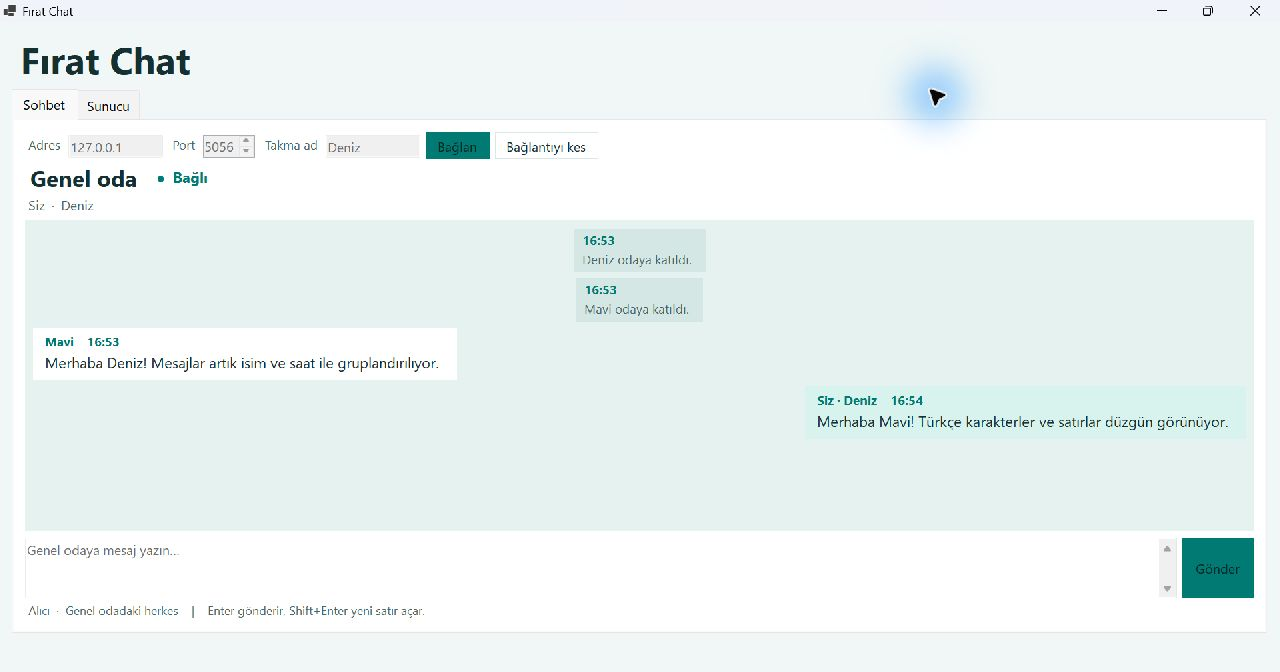
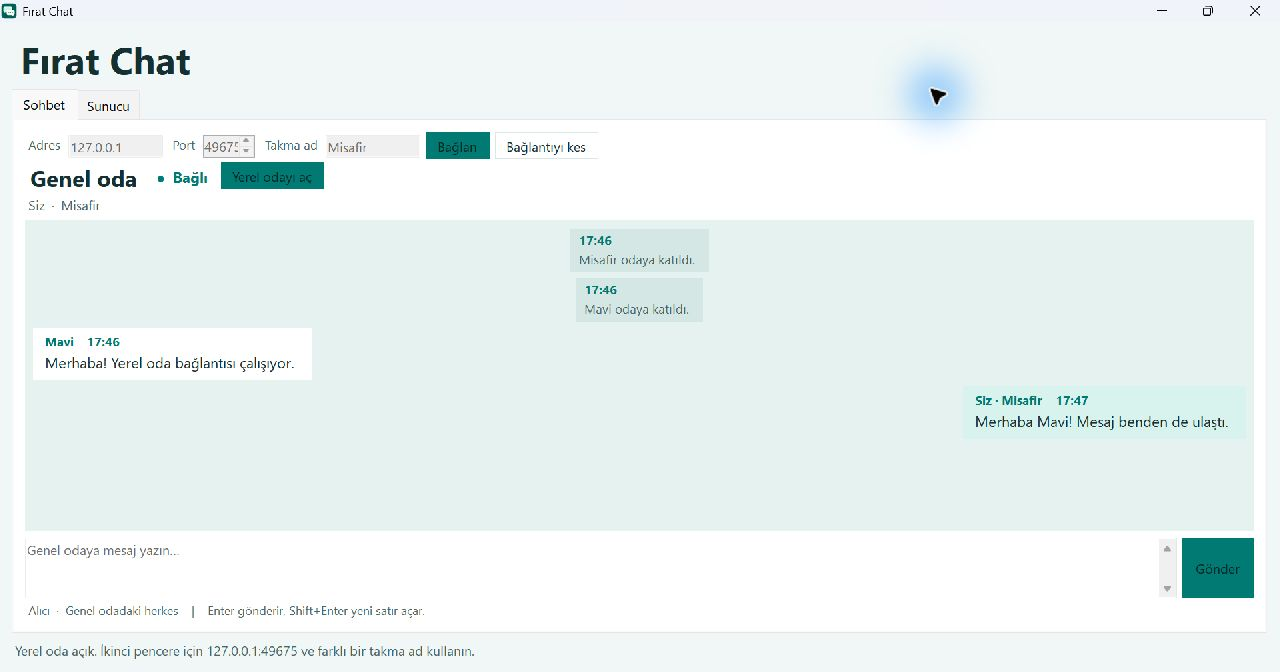
docs: yerel odayı açma ve iki yönlü sohbeti göster

diff --git a/README.md b/README.md
@@ -14,7 +14,9 @@ cd YMH219-ChatApp
 dotnet run -c Release
 ```
 
-1. **Sunucu** sekmesinde dinleme portunu seçin (varsayılan `5056`) ve **Sunucuyu başlat** düğmesine basın.
+En hızlı deneme için **Yerel odayı aç** düğmesine basın. Uygulama boş bir yerel port seçer ve aynı pencereden bağlanır. İkinci pencere için adres ve port alt mesajda görünür.
+
+1. Sunucuyu elle başlatmak için **Sunucu** sekmesinde dinleme portunu seçin (varsayılan `5056`) ve **Sunucuyu başlat** düğmesine basın.
 2. Aynı pencerede **Sohbet** sekmesine geçebilir veya ikinci bir pencere açabilirsiniz. Adres `127.0.0.1`, port sunucuyla aynı olmalı. Bir takma ad girip **Bağlan** deyin.
 3. Başka bir pencereden farklı bir takma adla aynı odaya katılın. **Gönder** veya Enter mesajı genel odaya yollar. Shift+Enter yeni satır açar.
 4. Kendi mesajınız sağdaki renkli balonda **Siz · Takma ad**, diğer mesajlar solda gönderen ve saat ile görünür. Ortadaki satırlar sistem bildirimleridir.
